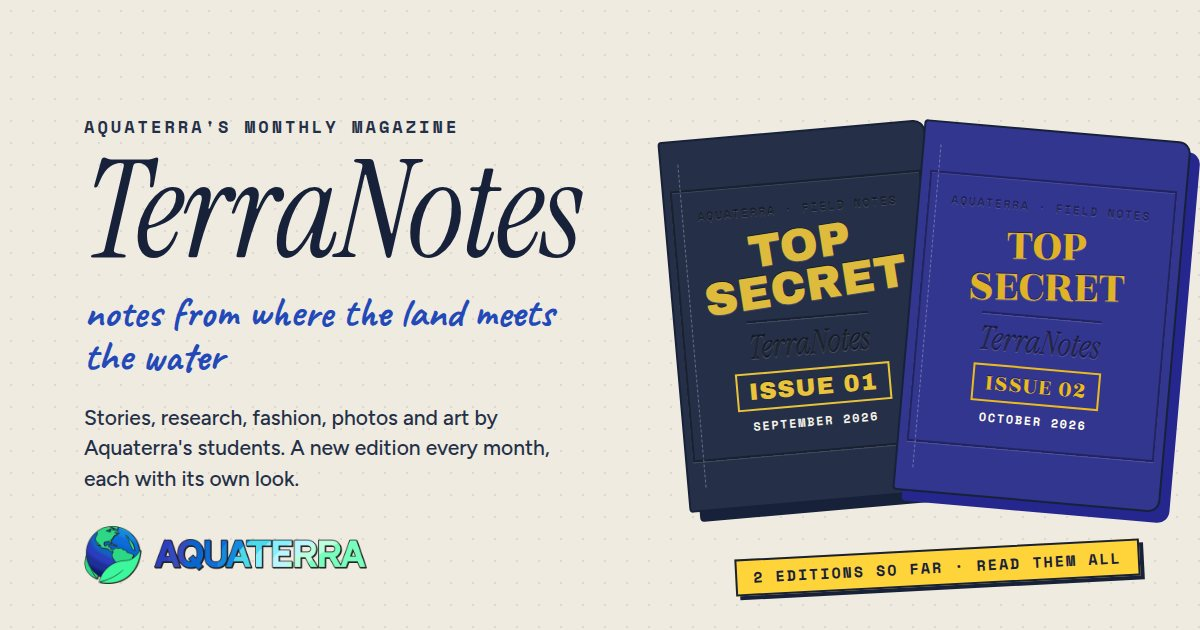
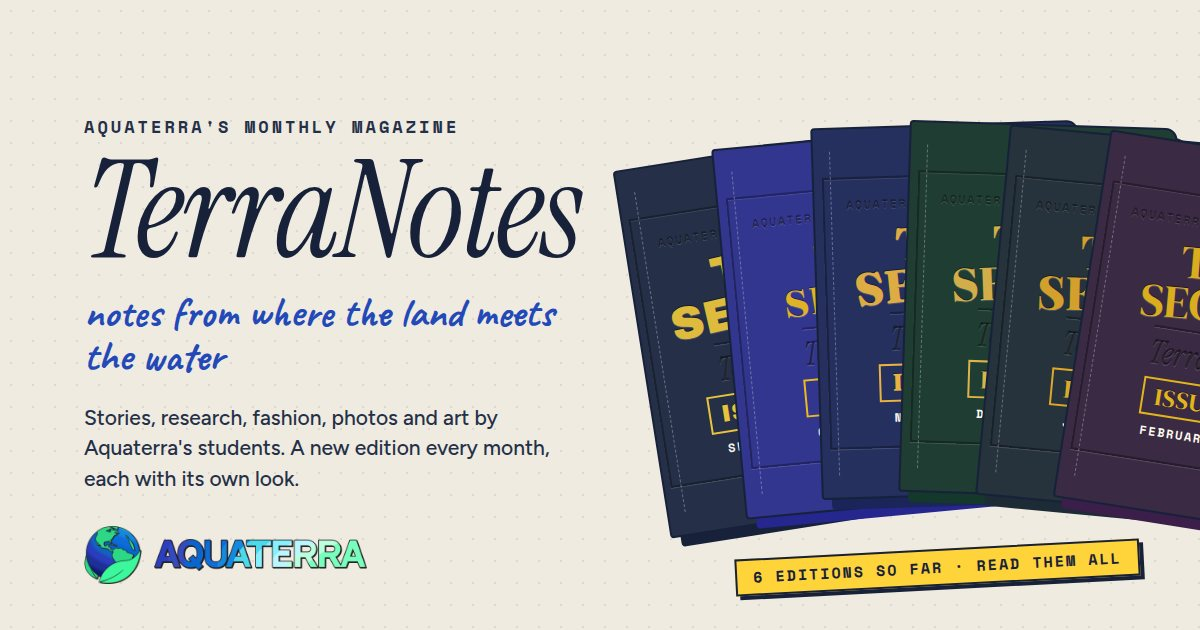
Launch November to February; October stays the home page (home: true)
EDITIONS gets home: true for the edition the home page shows while newer ones are
live. /editions headings follow; the main link preview fans all six editions.

Claude-Session: https://claude.ai/code/session_01CgW7HxbCpt5fYjBJ3ADamc

Changed region(s): [[0.4933, 0.181, 1.0, 0.8746], [0.6167, 0.9048, 0.6475, 0.9349]]

diff --git a/src/data/editions.js b/src/data/editions.js
@@ -2,25 +2,27 @@ import { withBase } from '../lib/base.js';
 
 // TerraNotes comes out once a month; each edition is its own folder, src/editions/<id>/ (its look, articles, photo
 // wall, words and team), so every edition keeps its own look and content for good (see CLAUDE.md "New edition").
-// Newest last. The newest one that isn't a draft is the "latest": the home page (/) shows it and its articles have
-// clean links (/articles/<slug>). Every other edition lives under its id, made from its month ('September 2026' →
+// Newest last. The newest one that isn't a draft is the "latest" (or the one marked home: true): the home page (/)
+// shows it and its articles have clean links (/articles/<slug>). Every other edition lives under its id, made from its month ('September 2026' →
 // 'sep26'): its home page is /sep26 (also /sep26/photos…) and its articles /sep26/articles/<slug>. That happens by
 // itself the moment a newer edition goes live (old clean links redirect). Its files live in public/editions/<id>/.
 //   theme: the issue's name, shown on /editions (pages/EditionsPage.jsx)
+//   home:  true = this one is the home page even though newer ones are live (they live under their ids, like older
+//          ones). Delete it to let the newest take the home page again.
 //   draft: true = still being made: not the latest, not listed anywhere (edition picker, /editions, sitemap), but
 //          viewable at its own address (/oct26) with a "draft" tape. Delete the flag to put it live.
 
 export const EDITIONS = [
   { number: 1, month: 'September 2026', theme: 'Exam season' },
-  { number: 2, month: 'October 2026', theme: 'The Pujo annual' },
-  { number: 3, month: 'November 2026', theme: 'Lights', draft: true },
-  { number: 4, month: 'December 2026', theme: 'Park Street', draft: true },
-  { number: 5, month: 'January 2027', theme: 'Boi Mela', draft: true },
-  { number: 6, month: 'February 2027', theme: 'Letters', draft: true },
+  { number: 2, month: 'October 2026', theme: 'The Pujo annual', home: true },
+  { number: 3, month: 'November 2026', theme: 'Lights' },
+  { number: 4, month: 'December 2026', theme: 'Park Street' },
+  { number: 5, month: 'January 2027', theme: 'Boi Mela' },
+  { number: 6, month: 'February 2027', theme: 'Letters' },
 ];
 
 export const PUBLISHED = EDITIONS.filter((e) => !e.draft);
-export const LATEST = PUBLISHED[PUBLISHED.length - 1].number;
+export const LATEST = (PUBLISHED.find((e) => e.home) || PUBLISHED[PUBLISHED.length - 1]).number;
 export const editionOf = (n) => EDITIONS.find((e) => e.number === n);
 export const isDraft = (n) => !!editionOf(n)?.draft;
 export const editionName = (n) => `Edition ${String(n).padStart(2, '0')}`;

diff --git a/src/pages/EditionsPage.jsx b/src/pages/EditionsPage.jsx
@@ -12,9 +12,9 @@ import { pad2 } from '../lib/format.js';
 import { FONT } from '../styles/fonts.js';
 
 // /editions: every monthly edition, each drawn in its own colours and heading font (its look.js, put on the tile as the
-// same CSS variables the pages use, so var(--ink) inside a tile is that edition's ink). The latest on top, big: its
-// covers, its theme, its intro line and its pieces. Under it the back issues, a shelf of same-size tiles (cover, number,
-// month, theme, pieces, "open →"), newest first. Then the editions still being made (draft: true), as dashed "coming"
+// same CSS variables the pages use, so var(--ink) inside a tile is that edition's ink). The latest (the home page's) on
+// top, big: its covers, its theme, its intro line and its pieces. Under it every other issue, a shelf of same-size
+// tiles (cover, number, month, theme, pieces, "open →"), newest first. Then the editions still being made (draft: true), as dashed "coming"
 // tiles with only their month, no link and nothing of their content. Both layouts, in normal document flow.
 const MONO = { fontFamily: FONT.mono, letterSpacing: "1.4px", textTransform: "uppercase" };
 const HEAD = { fontFamily: FONT.head, fontWeight: "400", lineHeight: "calc(0.95 * var(--head-lead, 1))" };
@@ -126,9 +126,9 @@ export function EditionsPage({ web }) {
         <h1 style={{ ...HEAD, margin: "8px 0 0", fontSize: web ? "110px" : "60px", lineHeight: "0.9", textTransform: "uppercase", color: "var(--ink)" }}>Editions</h1>
         <div style={{ marginTop: "8px", fontFamily: FONT.hand, fontSize: web ? "30px" : "22px", color: "var(--hand)", transform: "rotate(-1deg)" }}>every issue, each in its own colours</div>
       </div>
-      <Kicker web={web}>The latest</Kicker>
+      <Kicker web={web}>On the front page</Kicker>
       <Latest e={latest} web={web} />
-      <Kicker web={web}>{`Back issues · ${past.length}`}</Kicker>
+      <Kicker web={web}>{`${past.some((e) => e.number > LATEST) ? 'Every other issue' : 'Back issues'} · ${past.length}`}</Kicker>
       {past.length ? (
         <div style={{ display: "grid", gridTemplateColumns: web ? "repeat(3, 1fr)" : "1fr 1fr", gap: web ? "34px" : "18px 14px" }}>{past.map((e) => <Tile key={e.number} e={e} web={web} />)}</div>
       ) : (
